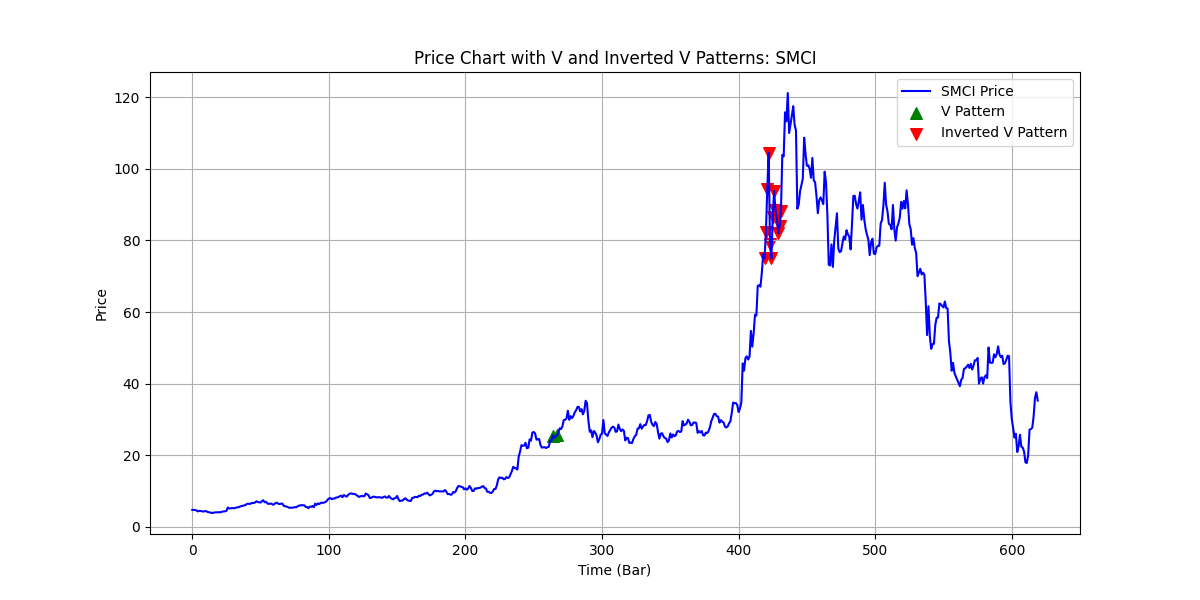
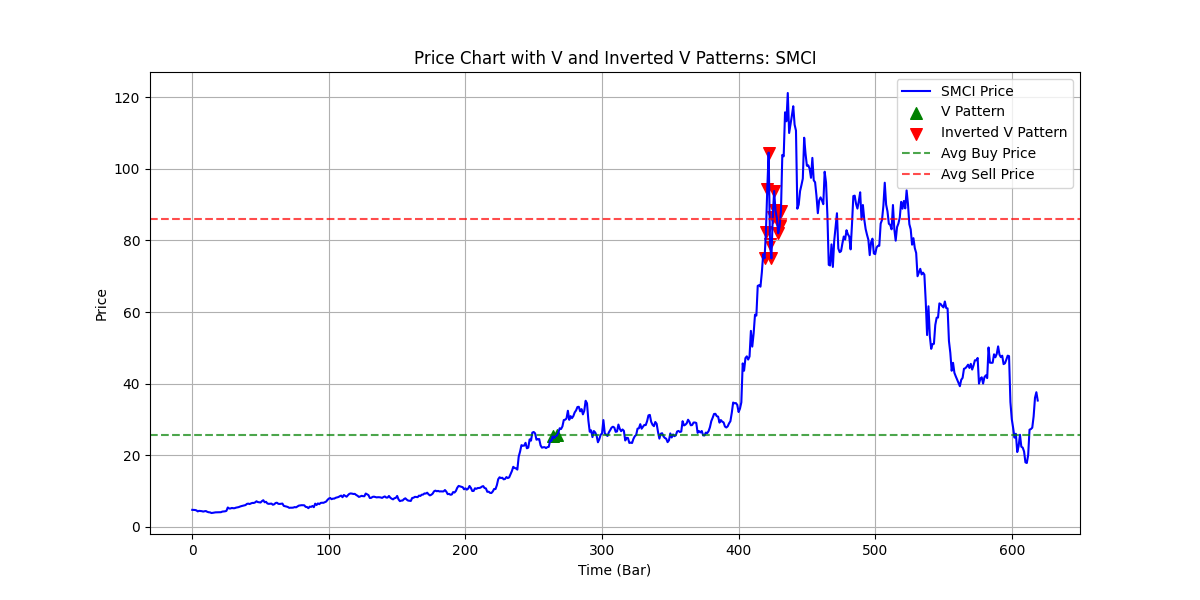
군집화

Changed region(s): [[0.74, 0.24, 0.8633, 0.3]]

diff --git a/harpoon-test.py b/harpoon-test.py
@@ -4,23 +4,21 @@ import os
 import matplotlib.pyplot as plt
 import numpy as np
 from tensorflow.keras.models import load_model
-
+from sklearn.cluster import DBSCAN
 def detect_and_plot_signals():
     """
-    V자 및 역V자 신호를 감지하고 차트 위에 시각화.
-    
-    :param data: 주가 데이터 (DataFrame)
-    :param model: 미세 조정된 모델
-    :param symbol: 분석할 주식 심볼 (문자열)
-    :param harpoon_model: Harpoon 모델 객체
+    V자 및 역V자 신호를 감지하고 차트 위에 시각화, 
+    신호 군집화로 평균 매수/매도 단가를 표시.
     """
     v_signals = []
     inverted_v_signals = []
     prices = data[f"{symbol}_Price"].values
     bar = 0
+    
+    # 신호 감지
     while bar < len(data) - harpoon_model.seqlen:
         if bar > harpoon_model.seqlen * 2:
-            start = bar - harpoon_model.seqlen - 49 # must be 49.
+            start = bar - harpoon_model.seqlen - 49  # must be 49.
             end = bar
             pred = harpoon_model.predict(model, data.iloc[start:end], symbol)
             if np.argmax(pred) == 1:  # 역V자 패턴
@@ -29,21 +27,56 @@ def detect_and_plot_signals():
                 v_signals.append(bar)
         
         bar += 1
+    
+    # 신호 군집화
+    def cluster_signals(signal_indices):
+        """신호를 군집화하여 각 군집의 중심(평균 단가)을 반환"""
+        if not signal_indices:
+            return []
+        
+        # 신호 위치를 DBSCAN으로 군집화
+        clustering = DBSCAN(eps=10, min_samples=2).fit(np.array(signal_indices).reshape(-1, 1))
+        clusters = {}
+        for idx, label in enumerate(clustering.labels_):
+            if label == -1:
+                continue  # Noise 제거
+            clusters.setdefault(label, []).append(signal_indices[idx])
+        
+        # 각 군집의 평균 단가 계산
+        avg_prices = [
+            (np.mean(cluster), np.mean(prices[cluster])) for cluster in clusters.values()
+        ]
+        return avg_prices
+    
+    v_clusters = cluster_signals(v_signals)
+    inverted_v_clusters = cluster_signals(inverted_v_signals)
+    
     # 시각화
     plt.figure(figsize=(12, 6))
     plt.plot(prices, label=f"{symbol} Price", color="blue")
-    plt.scatter(v_signals, prices[v_signals], color="green", label="V Pattern", marker="^", alpha=1, s=70)  # Increased size
-    plt.scatter(inverted_v_signals, prices[inverted_v_signals], color="red", label="Inverted V Pattern", marker="v", alpha=1, s=70)  # Increased size
+    
+    # V자 및 역V자 신호
+    plt.scatter(v_signals, prices[v_signals], color="green", label="V Pattern", marker="^", alpha=1, s=70)
+    plt.scatter(inverted_v_signals, prices[inverted_v_signals], color="red", label="Inverted V Pattern", marker="v", alpha=1, s=70)
+    
+    # 평균 매수/매도 단가 점선
+    for avg_bar, avg_price in v_clusters:
+        plt.axhline(y=avg_price, color="green", linestyle="--", alpha=0.7, label="Avg Buy Price")
+    for avg_bar, avg_price in inverted_v_clusters:
+        plt.axhline(y=avg_price, color="red", linestyle="--", alpha=0.7, label="Avg Sell Price")
+    
+    # 기타 설정
     plt.title(f"Price Chart with V and Inverted V Patterns: {symbol}")
     plt.xlabel("Time (Bar)")
     plt.ylabel("Price")
     plt.legend()
     plt.grid(True)
-    plt.savefig(f"{symbol}_v_inverted_v_patterns.png")  # Save the figure as an image
-    plt.close()  # Close the plot to free up memory
+    plt.savefig(f"{symbol}_v_inverted_v_patterns.png")
+    plt.show()
+    plt.close()
 
-
-for symbol in ["TSLA", "NVDA", "SMCI"]:
+#"TSLA", "NVDA", 
+for symbol in ["SMCI"]:
     symbols = [symbol]
     data = utils.load_historical_for_learning(symbol, utils.today_before(900), utils.today(), interval='1d')
     if os.path.exists(f"best_HARPOON_{symbol}_finetuned_model.h5"):
